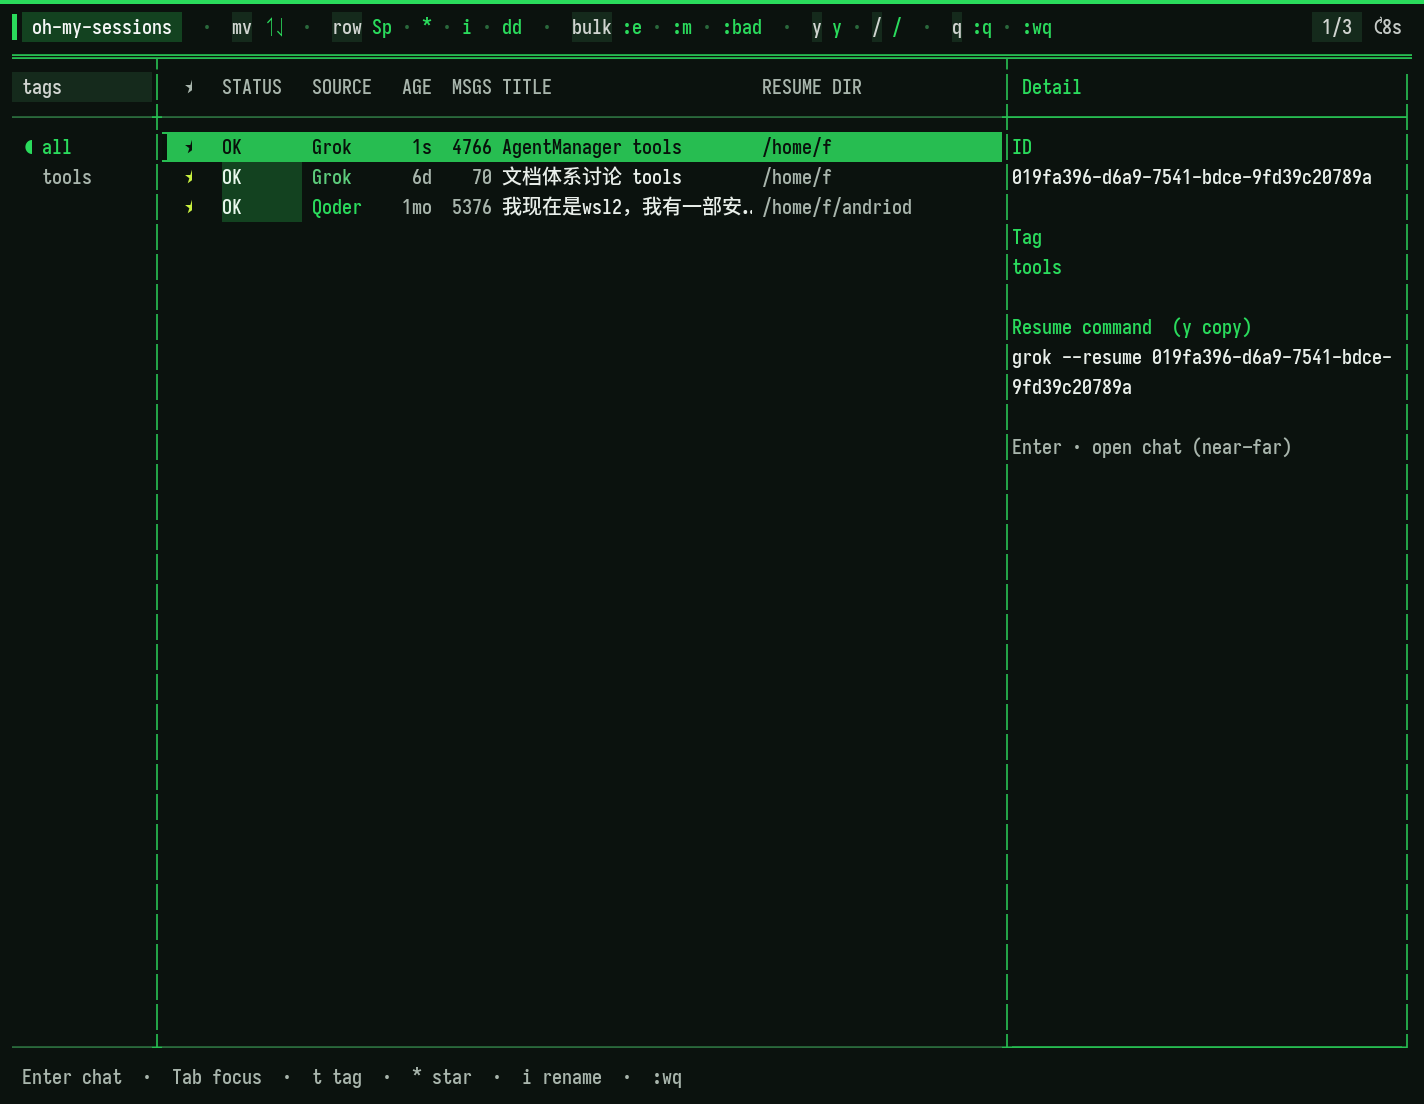
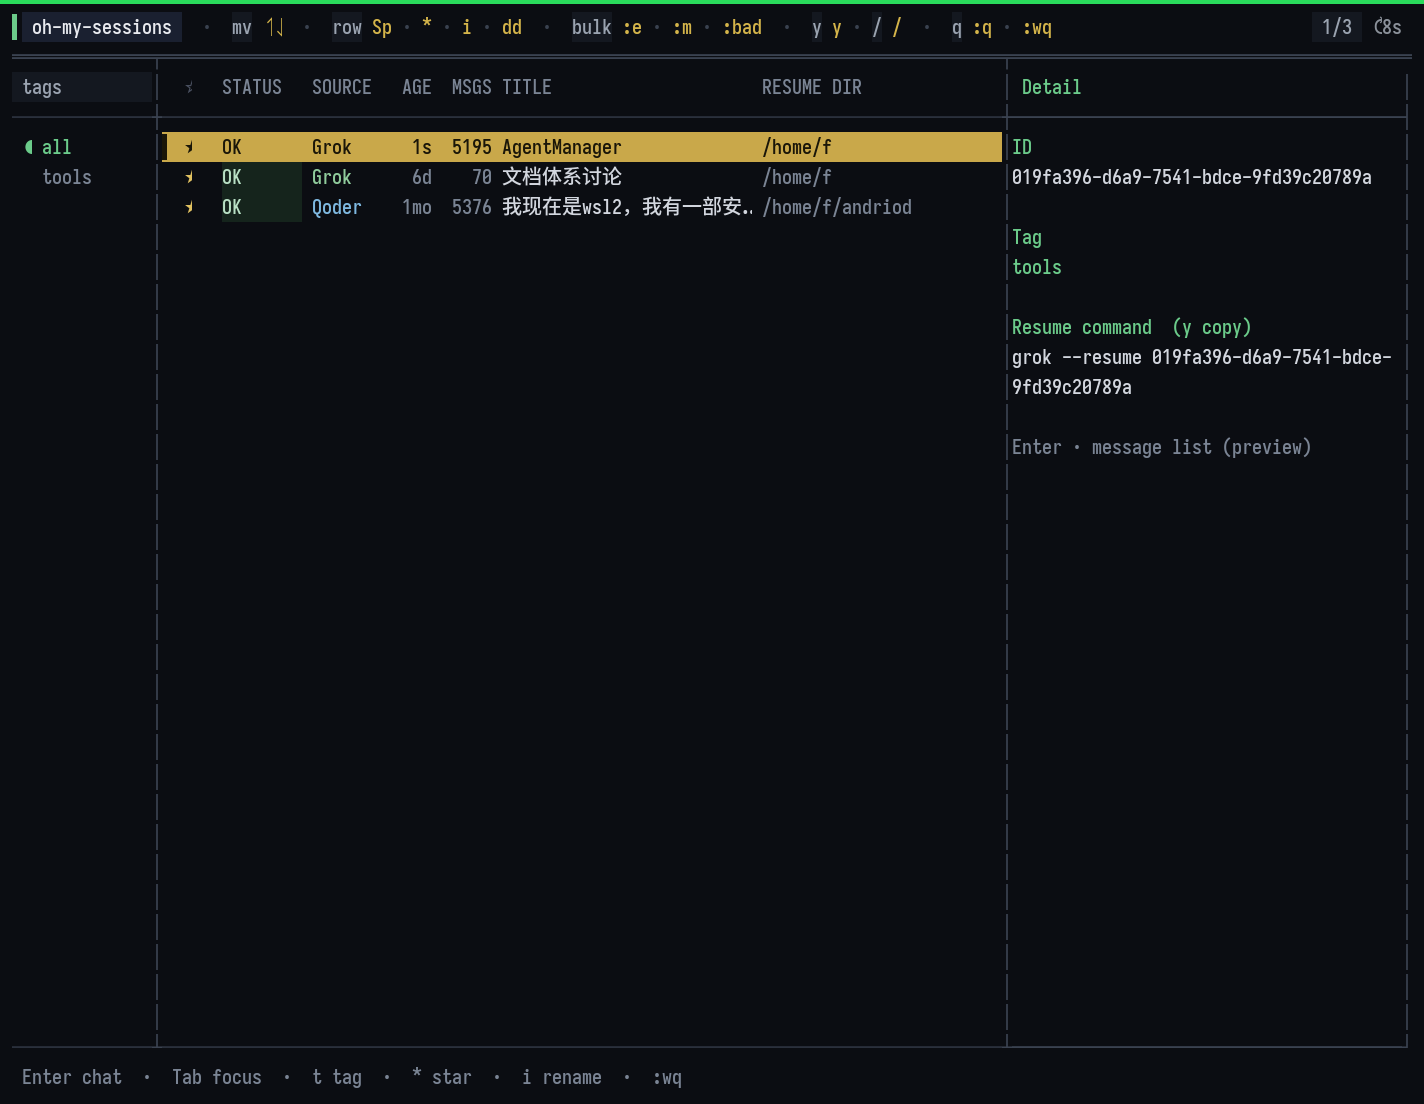
style(theme): gold selection + cool dark table UI
Learn from reference session TUI: blue-black canvas, soft body text,
amber/gold selected row, ★/☆ stars, muted paths and borders.
Green kept only as quiet status accent.

diff --git a/src/tui/theme.ts b/src/tui/theme.ts
@@ -1,106 +1,109 @@
 /**
- * Qoder-aligned dark palette.
- *
- * Brand green (#27BD51 / #2ADB5C) is for accents only.
- * Body / IDs / paths use near-white or light gray — pale mint on dark
- * is illegible at a distance (e.g. long UUIDs).
+ * Palette inspired by professional agent session TUIs (reference screenshot):
+ *   - deep blue-black canvas (not neon-green field)
+ *   - soft off-white body text
+ *   - **gold/amber selection row** (readable, calm)
+ *   - gold ★ / dim ☆ stars
+ *   - muted secondary for paths / age
+ *   - green kept only as a quiet accent (status ok, brand tick)
  */
 export const theme = {
   /**
    * Full-screen canvas (we paint this ourselves).
-   * Do not rely on the terminal default — many users run light terminals.
+   * Cool near-black — matches the reference “terminal table” look.
    */
-  canvas: "#0B120E",
+  canvas: "#0B0D12",
 
-  /** Brand green — labels, keys, chips only */
-  accent: "#2ADB5C",
-  /** Near-white titles (on canvas) */
-  title: "#F5F7F6",
+  /** Quiet accent (ok ticks, small chrome) — not the selection color */
+  accent: "#6BCB8A",
+  /** Near-white titles */
+  title: "#E8EAEF",
   /** Body / IDs / commands */
-  text: "#E8EEE9",
-  /** Secondary (age, path) */
-  dim: "#A8B5AC",
-  line: "#2A6A3C",
-  border: "#27BD51",
+  text: "#D2D6DE",
+  /** Secondary (age, path, hints) */
+  dim: "#7A8494",
+  line: "#2A303C",
+  border: "#3A4250",
 
-  ok: "#3DDC6A",
-  empty: "#B0B8B2",
-  missing: "#E8A888",
+  ok: "#6BCB8A",
+  empty: "#8A9099",
+  missing: "#E0A080",
 
-  cursor: "#08120B",
-  cursorBar: "#2ADB5C",
-  selectBg: "#27BD51",
-  selectFg: "#08120B",
+  /** Selection — gold bar like the reference UI */
+  cursor: "#1A1608",
+  cursorBar: "#D4B44A",
+  selectBg: "#C9A84A",
+  selectFg: "#1A1608",
 
-  multiBg: "#14321C",
-  multiFg: "#F0F2F0",
-  multiMark: "#2ADB5C",
+  /** Multi-select — cooler muted amber */
+  multiBg: "#2A2618",
+  multiFg: "#E8E0C8",
+  multiMark: "#D4B44A",
 
-  star: "#C8F040",
+  /** Stars: filled gold / empty outline */
+  star: "#E0C060",
+  starEmpty: "#4A5060",
 
-  editBg: "#9AE8A8",
-  editFg: "#08120B",
+  /** Inline rename */
+  editBg: "#D4B44A",
+  editFg: "#1A1608",
 
-  warn: "#FAAD14",
-  /** Commands / hotkeys — solid brand green (not pale) */
-  action: "#2ADB5C",
-  panelBg: "#0C0E0D",
+  warn: "#E0A84A",
+  action: "#D4B44A",
+  panelBg: "#0E1016",
 
-  brandNameBg: "#134220",
-  brandNameFg: "#F5F7F6",
-  brandTagBg: "#152A1C",
-  brandTagFg: "#D0D4D0",
-  brandSep: "#2A6A3C",
-  brandKey: "#2ADB5C",
-  brandHint: "#C4C9C5",
+  /** Brand bar — subdued, not neon */
+  brandNameBg: "#1A2030",
+  brandNameFg: "#E8EAEF",
+  brandTagBg: "#141820",
+  brandTagFg: "#9AA3B0",
+  brandSep: "#3A4250",
+  brandKey: "#D4B44A",
+  brandHint: "#8A9099",
 
   source: {
-    all: "#F5F7F6",
-    grok: "#5CCC7B",
-    qoder: "#2ADB5C",
-    claude: "#8BD09E",
-    codex: "#A0B8A8",
-    cursor: "#B0C4B4",
+    all: "#E8EAEF",
+    grok: "#8FCB9B",
+    qoder: "#7EB8E0",
+    claude: "#D4A574",
+    codex: "#A0A8B4",
+    cursor: "#B0B8C4",
   } as Record<string, string>,
 
   pill: {
-    okBg: "#134220",
-    okFg: "#E8F8EC",
-    emptyBg: "#2A322E",
-    emptyFg: "#E0E4E0",
-    missingBg: "#3E2A22",
-    missingFg: "#FFD0B0",
+    okBg: "#15241C",
+    okFg: "#B8E0C4",
+    emptyBg: "#1C2028",
+    emptyFg: "#C0C4CC",
+    missingBg: "#2A1C18",
+    missingFg: "#F0C8B0",
   },
 
   /**
-   * Chat pane — modern “message list” (no emoji chrome).
-   * Soft cards + thin accent bar; Agent brand green, You cool slate.
+   * Chat message list — calm cards on cool canvas.
+   * Agent: soft green; You: soft blue (not neon).
    */
   chat: {
-    /** Sticky strip at top of pane */
-    headerFg: "#8FA896",
-    headerBg: "#0C1410",
-    headerAccent: "#2ADB5C",
-    /** Agent card */
-    agentName: "#3DDC6A",
-    agentBar: "#2ADB5C",
-    agentBg: "#101A14",
-    agentText: "#E6EEE8",
-    /** You card */
-    userName: "#7EC8E3",
-    userBar: "#4AA8C9",
-    userBg: "#0E161C",
-    userText: "#E4EEF2",
-    /** Tool / think (rare) */
+    headerFg: "#8A9099",
+    headerBg: "#10141C",
+    headerAccent: "#D4B44A",
+    agentName: "#8FCB9B",
+    agentBar: "#4A9A68",
+    agentBg: "#10161A",
+    agentText: "#D8DEE4",
+    userName: "#7EB8E0",
+    userBar: "#4A88B0",
+    userBg: "#0E141C",
+    userText: "#D8E4EC",
     toolName: "#D4B56A",
-    toolBar: "#C4A04A",
+    toolBar: "#A88840",
     toolBg: "#16140E",
-    toolText: "#EDE6D4",
-    thinkName: "#8A968C",
-    thinkBar: "#4A5550",
-    thinkBg: "#121614",
-    thinkText: "#A8B5AC",
-    timeFg: "#5A6E60",
-    sep: "#152018",
+    toolText: "#E8E0C8",
+    thinkName: "#8A9099",
+    thinkBar: "#4A5060",
+    thinkBg: "#12141A",
+    thinkText: "#A0A8B4",
+    timeFg: "#5A6470",
+    sep: "#1C222C",
   },
 } as const;

diff --git a/src/tui/rawApp.ts b/src/tui/rawApp.ts
@@ -669,8 +669,8 @@ export async function runRawTui(
       : isMulti
         ? " *"
         : "  ";
-    // star: padded " ★ " so it breathes away from STATUS
-    const starPlain = padEndWidth(starred ? "★" : "", LC.star);
+    // star: filled ★ / outline ☆ (reference TUI style)
+    const starPlain = padEndWidth(starred ? "★" : "☆", LC.star);
     const gapStar = " ".repeat(LC.gs);
     const statusPlain = padEndWidth(
       h === "ok" ? "OK" : h === "empty" ? "Empty" : "Missing",
@@ -719,7 +719,7 @@ export async function runRawTui(
 
     const starColored = starred
       ? fg(theme.star, padEndWidth("★", LC.star))
-      : " ".repeat(LC.star);
+      : fg(theme.starEmpty, padEndWidth("☆", LC.star));
 
     return padAnsi(
       markPlain +
@@ -743,7 +743,7 @@ export async function runRawTui(
   function buildColHeader(): string {
     return padAnsi(
       "  " +
-        fg(theme.dim, padEndWidth("★", LC.star)) +
+        fg(theme.starEmpty, padEndWidth("☆", LC.star)) +
         " ".repeat(LC.gs) +
         fg(theme.dim, padEndWidth("STATUS", LC.status)) +
         " ".repeat(LC.g1) +

diff --git a/scripts/ansi_to_png.py b/scripts/ansi_to_png.py
@@ -19,8 +19,9 @@ SGR_RE = re.compile(r"\x1b\[([0-9;]*)m")
 OTHER_CSI = re.compile(r"\x1b\[[0-9;?]*[A-Za-ln-z]")
 OSC = re.compile(r"\x1b\][^\x07\x1b]*(?:\x07|\x1b\\)")
 
-DEFAULT_BG = (11, 18, 14)
-DEFAULT_FG = (232, 238, 233)
+# Match theme.canvas / theme.text (cool dark + soft body)
+DEFAULT_BG = (11, 13, 18)
+DEFAULT_FG = (210, 214, 222)
 PAD = 12
 
 _SCRIPT_DIR = Path(__file__).resolve().parent
